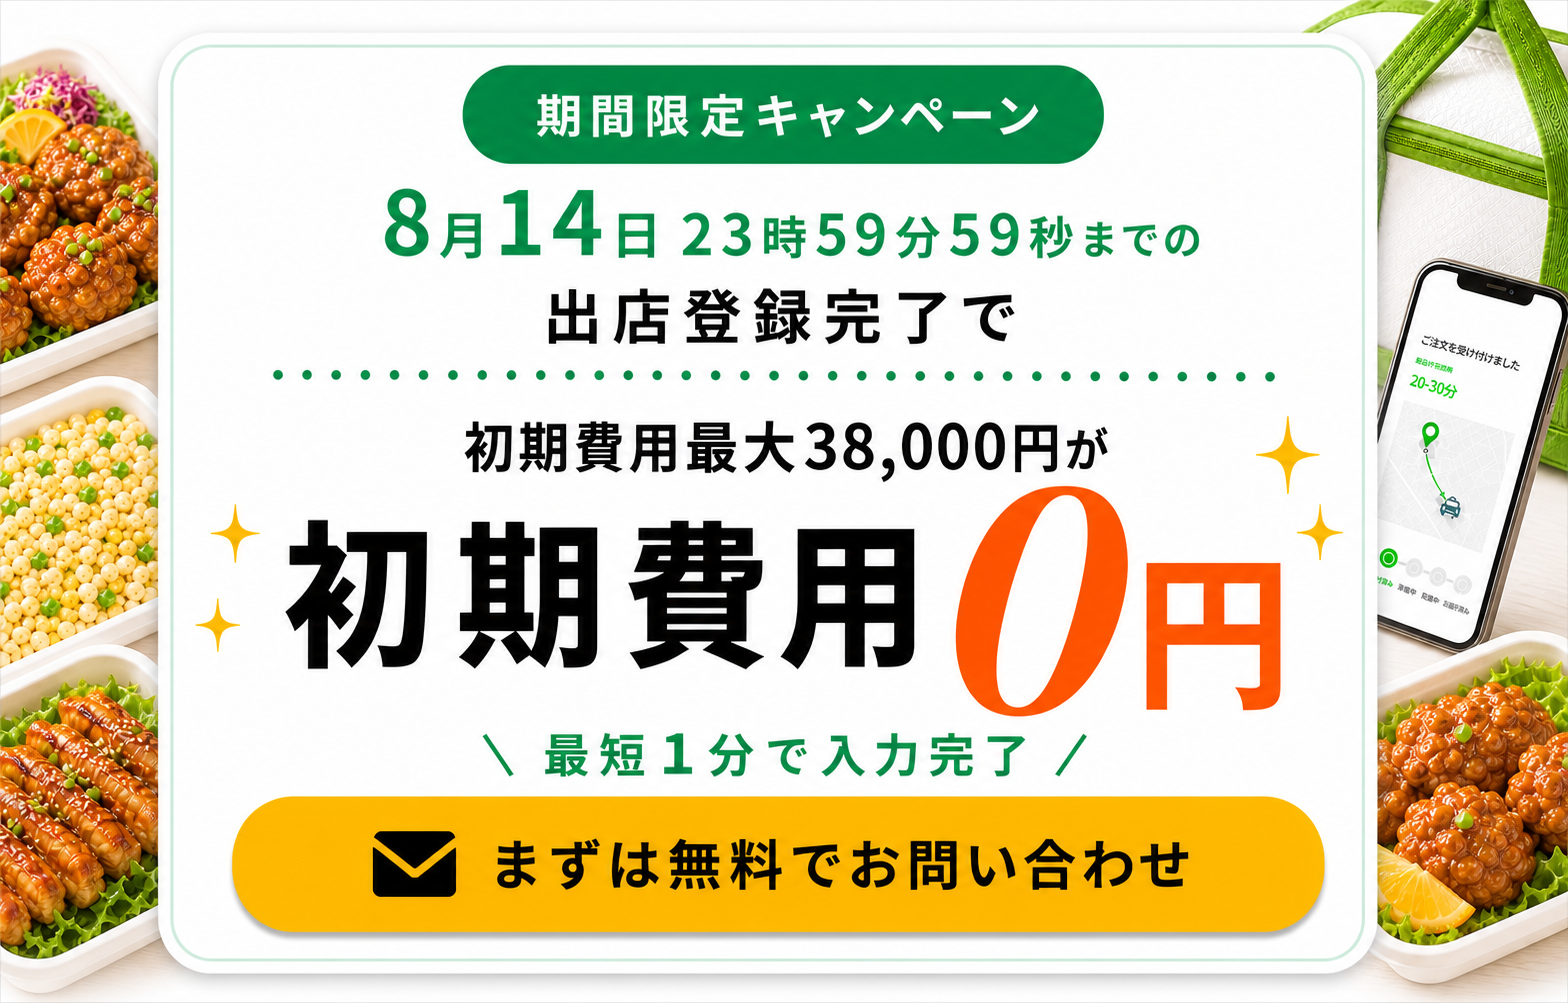
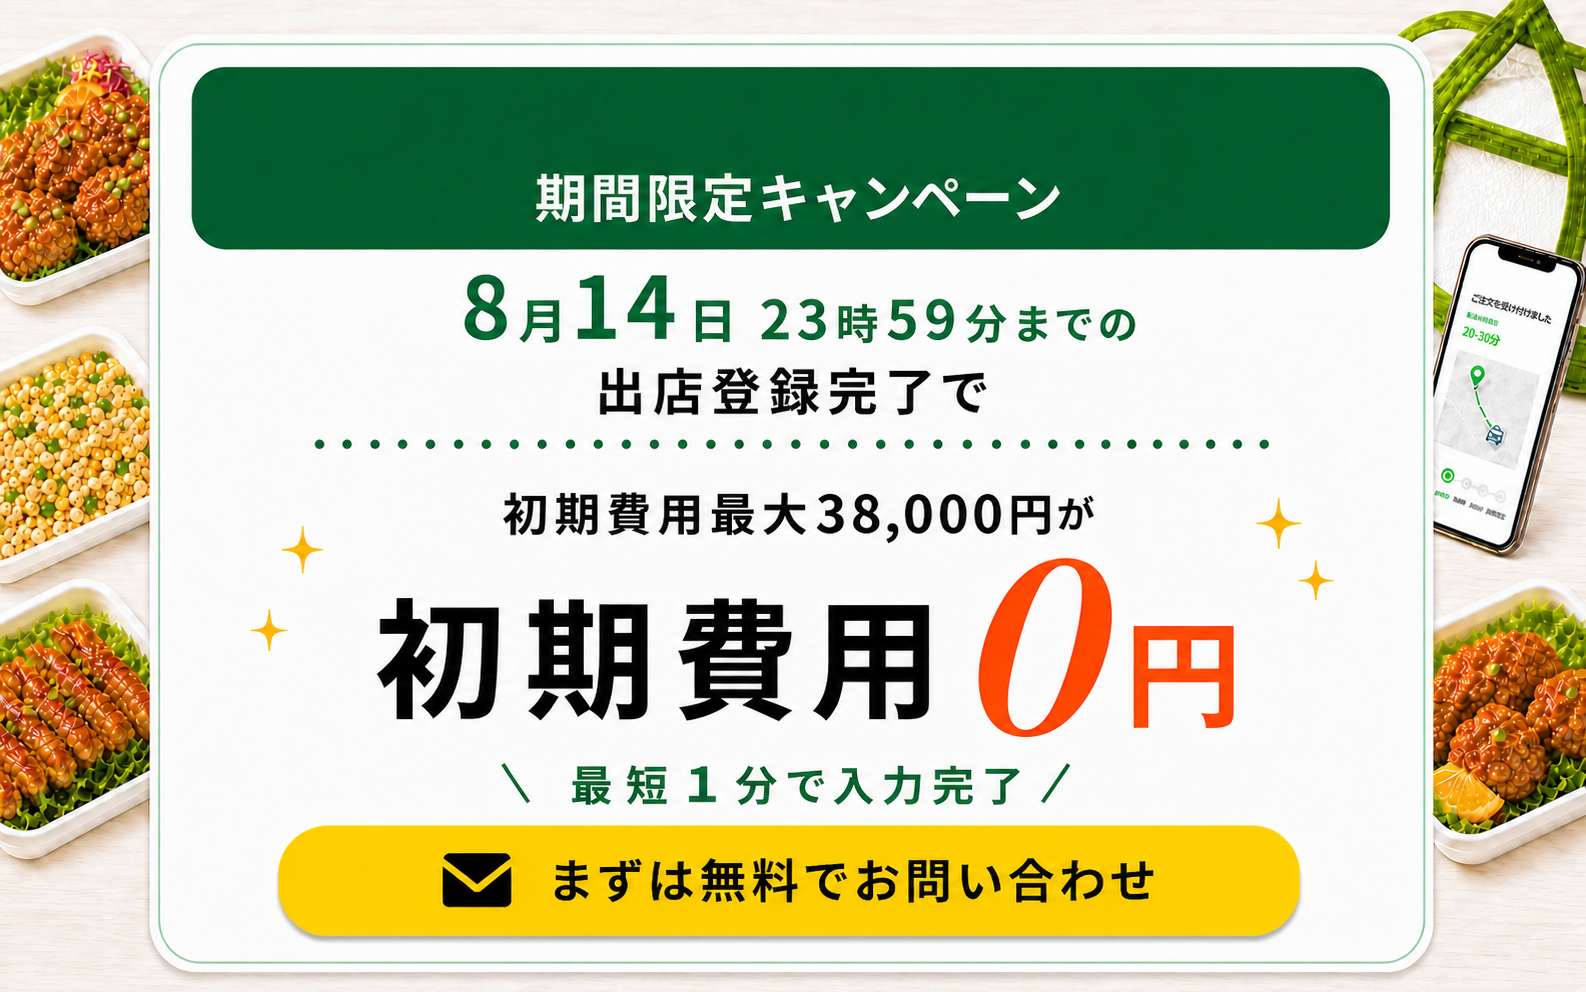
Replace PC popup image, make caption plain white text (no pill bg)

diff --git a/08.banner/lp-test-0814/index.html b/08.banner/lp-test-0814/index.html
@@ -1029,10 +1029,9 @@ a{text-decoration:none;color:inherit}
 .cp-overlay.cp-open .cp-box{transform:translateY(0)}
 .cp-caption{
   position:absolute; top:10px; left:50%; transform:translateX(-50%);
-  background:#fff; color:#111;
-  font-size:12px; font-weight:700;
-  padding:6px 12px; border-radius:20px;
-  box-shadow:0 2px 8px rgba(0,0,0,.25);
+  color:#fff;
+  font-size:14px; font-weight:700;
+  text-shadow:0 1px 4px rgba(0,0,0,.5);
   z-index:1; white-space:nowrap; letter-spacing:.01em;
 }
 .cp-box-inner{position:relative}
